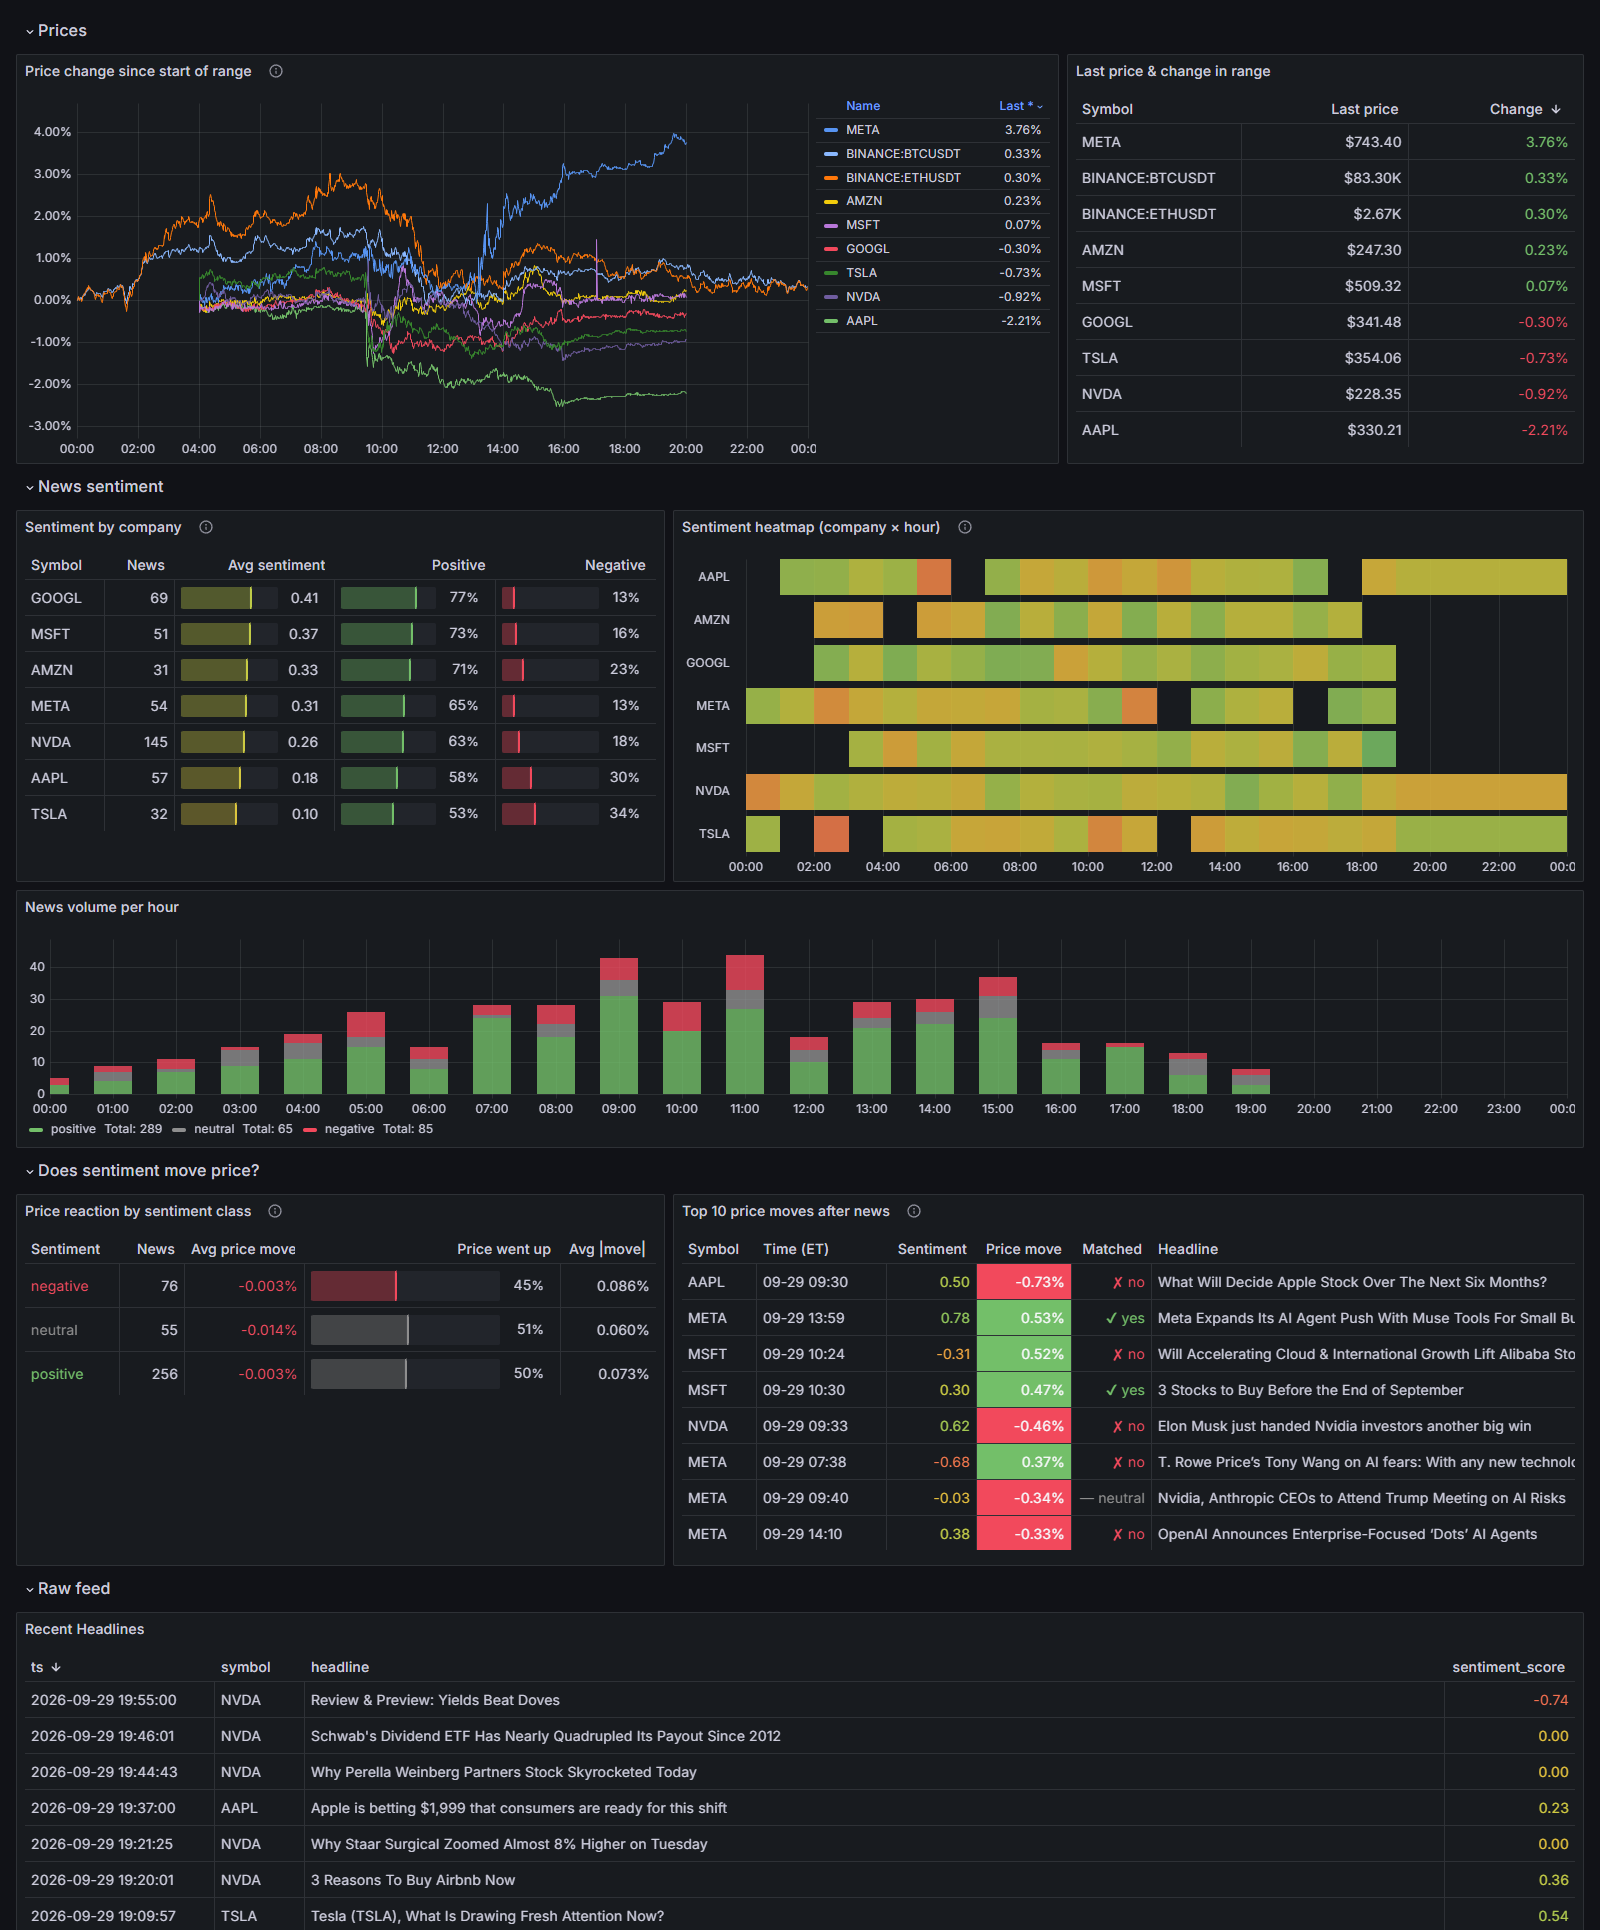
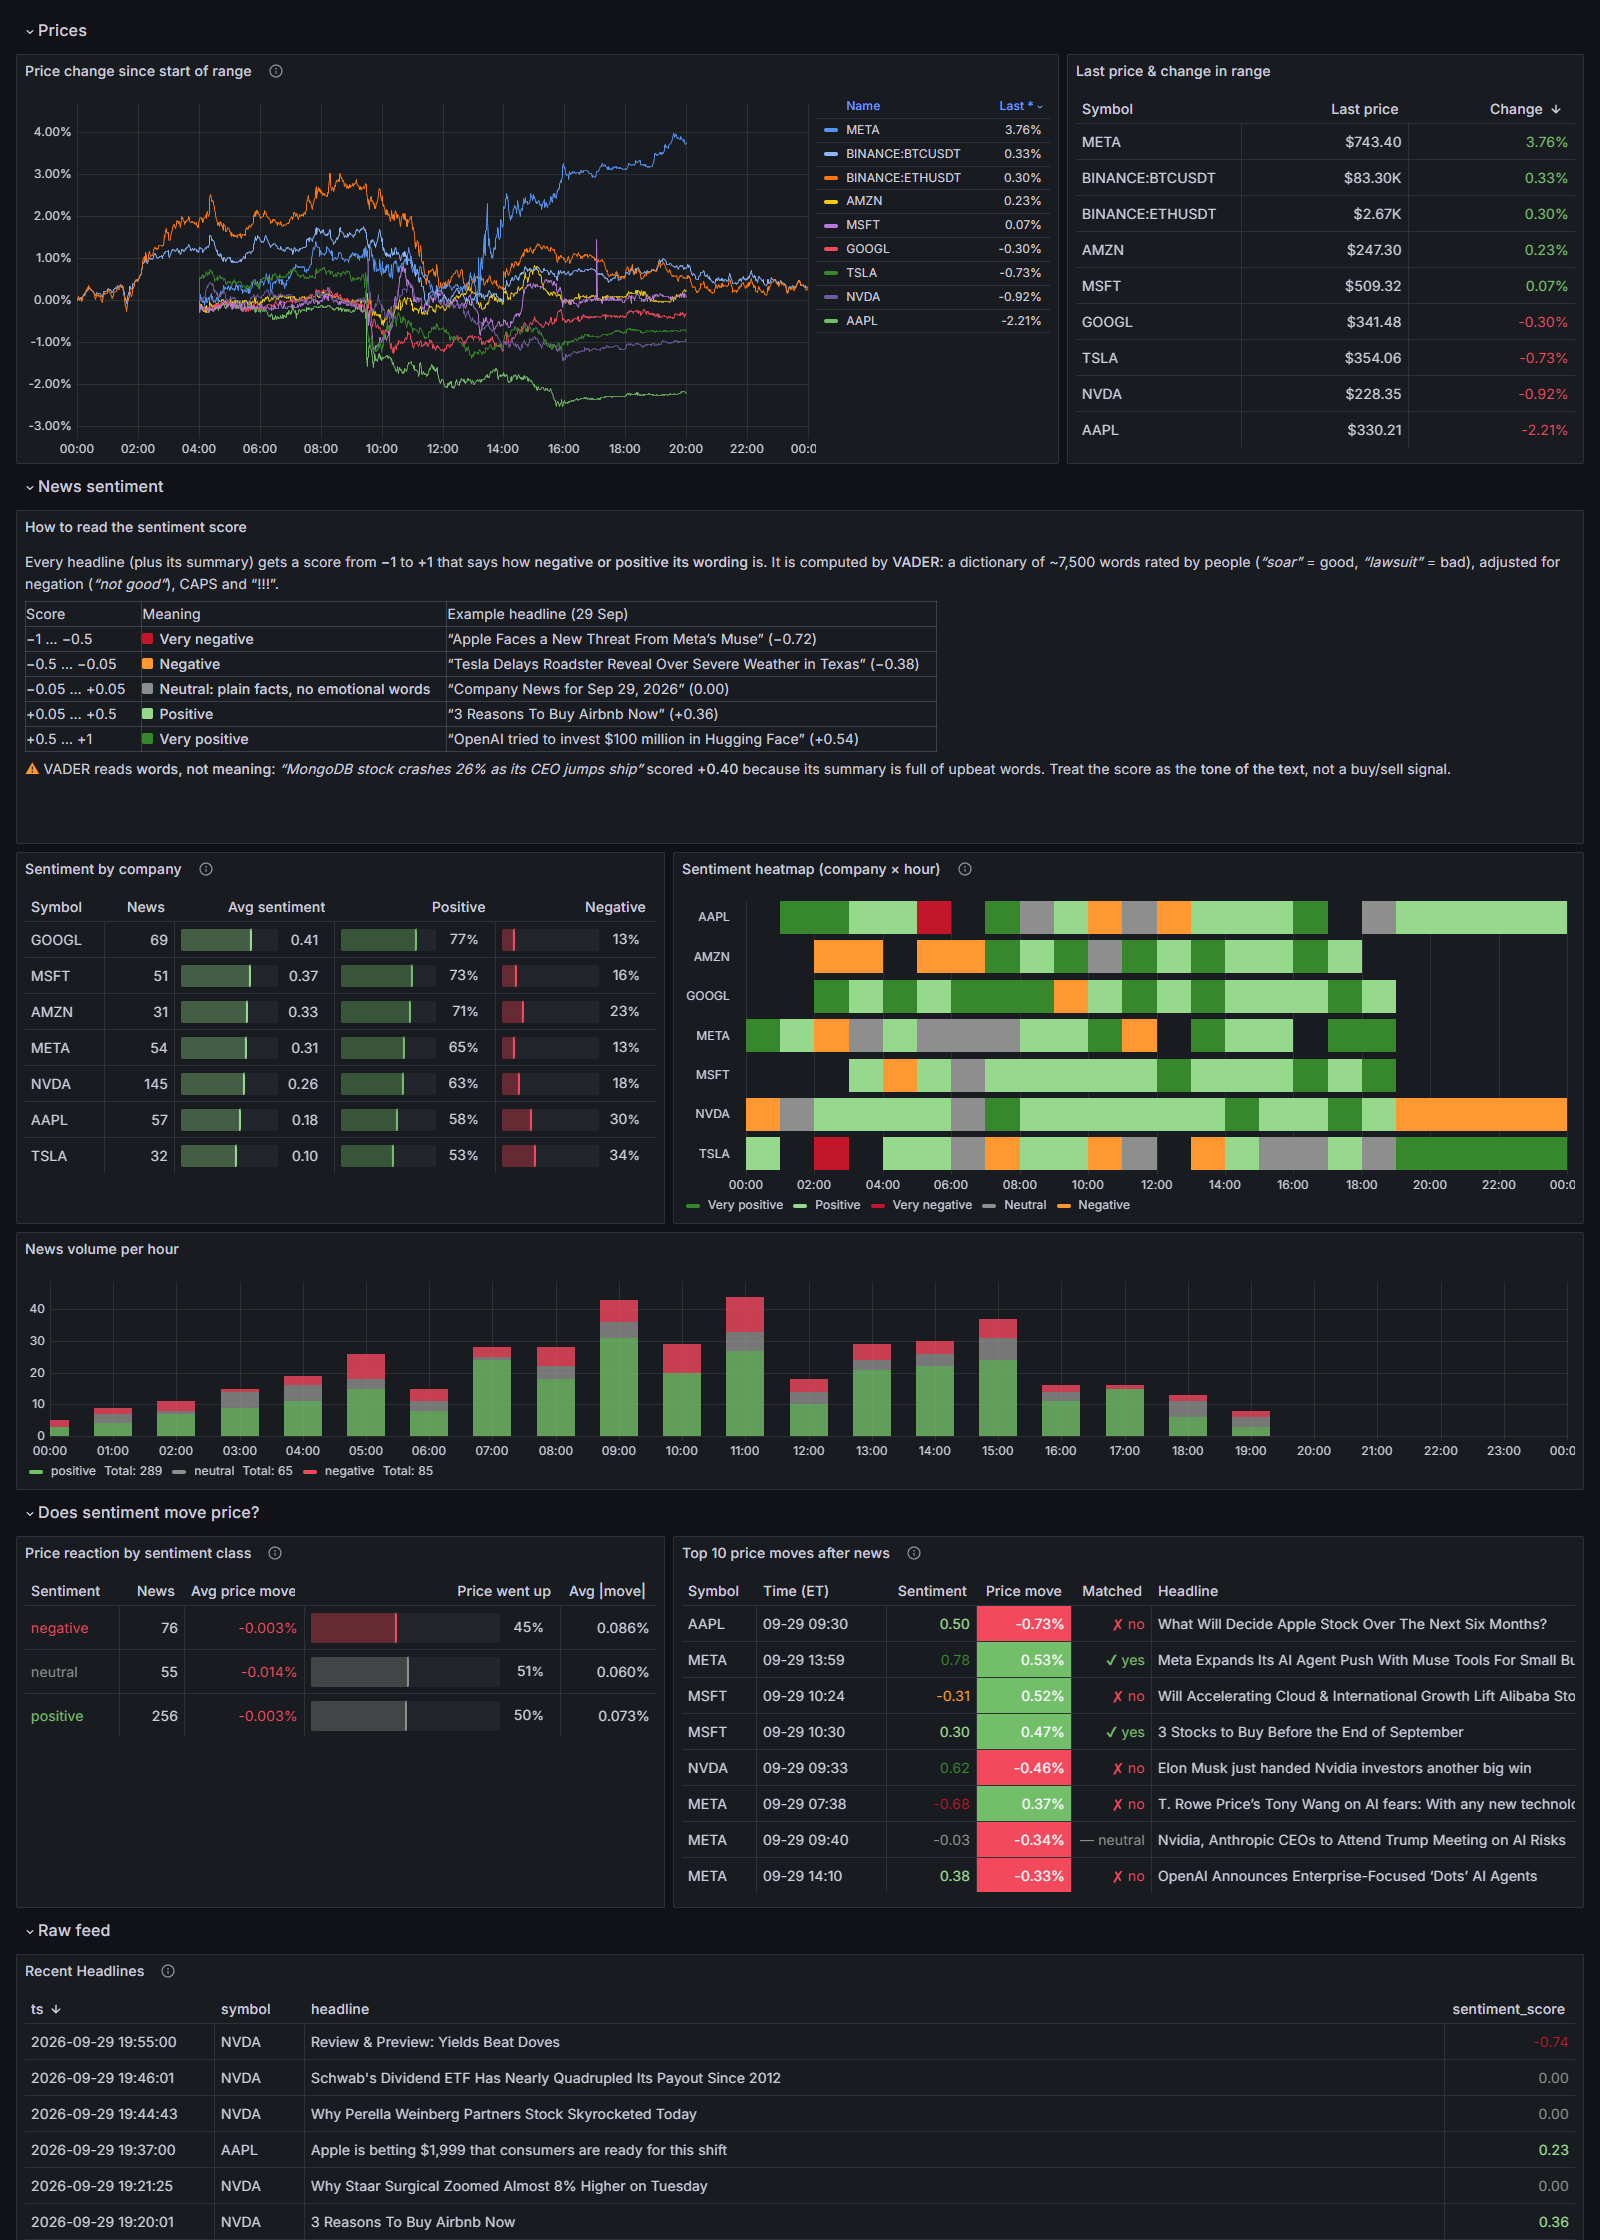
feat(grafana): explain sentiment score, 5 distinct sentiment colours
- New "How to read the sentiment score" panel: plain-language scale,
  real example headline per level, and a caveat that VADER scores
  wording, not meaning
- Heatmap: gradient over -1..1 made the typical 0..0.5 range look
  uniformly yellow-green; replaced with 5 discrete levels (very
  negative / negative / neutral / positive / very positive) and a
  named legend
- Same 5 colours for every sentiment value in the tables; panel
  tooltips explain the scale
- README: sentiment score section, refreshed screenshot

diff --git a/README.md b/README.md
@@ -65,14 +65,27 @@ Provisioned automatically from [`grafana/provisioning/dashboards/market-echo.jso
 | ------------------------- | ------------------------------------ | ------------------------------------------------------------- |
 | Prices                    | Price change since start of range    | How did each symbol move? (rebased to 0% so BTC and stocks share an axis) |
 |                           | Last price & change in range         | Where is each symbol now?                                     |
-| News sentiment            | Sentiment by company                 | Who gets good/bad press? (avg score, % positive / negative)   |
+| News sentiment            | How to read the sentiment score      | Plain-language scale with real example headlines per level |
+|                           | Sentiment by company                 | Who gets good/bad press? (avg score, % positive / negative)   |
 |                           | Sentiment heatmap (company × hour)   | When did the tone change, and for whom?                       |
 |                           | News volume per hour                 | When does news flow, and how positive is it?                  |
 | Does sentiment move price? | Price reaction by sentiment class   | Avg % move and share of "price went up" after positive / neutral / negative news |
 |                           | Top 10 price moves after news        | Which headlines preceded the biggest moves, and did the direction match? |
 | Raw feed                  | Recent Headlines                     | Latest scored headlines                                        |
 
-Sentiment classes use VADER's standard cut-offs: positive ≥ 0.05, negative ≤ −0.05.
+### Sentiment score
+
+Each headline + summary gets a VADER compound score from **−1** (very negative wording) to **+1** (very positive wording). The dashboard uses the same five colours everywhere:
+
+| Score          | Level         | Example (29 Sep)                                               |
+| -------------- | ------------- | -------------------------------------------------------------- |
+| −1 … −0.5      | Very negative | "Apple Faces a New Threat From Meta's Muse" (−0.72)            |
+| −0.5 … −0.05   | Negative      | "Tesla Delays Roadster Reveal Over Severe Weather in Texas" (−0.38) |
+| −0.05 … +0.05  | Neutral       | "Company News for Sep 29, 2026" (0.00)                         |
+| +0.05 … +0.5   | Positive      | "3 Reasons To Buy Airbnb Now" (+0.36)                          |
+| +0.5 … +1      | Very positive | "OpenAI tried to invest $100 million in Hugging Face" (+0.54)  |
+
+±0.05 are VADER's standard positive/negative cut-offs, and they define the positive / neutral / negative classes in the impact panels. VADER scores words, not meaning ("MongoDB stock crashes 26% as its CEO jumps ship" scored +0.40 thanks to an upbeat summary), so read the score as the tone of the text, not as a trading signal.
 
 ---
 
